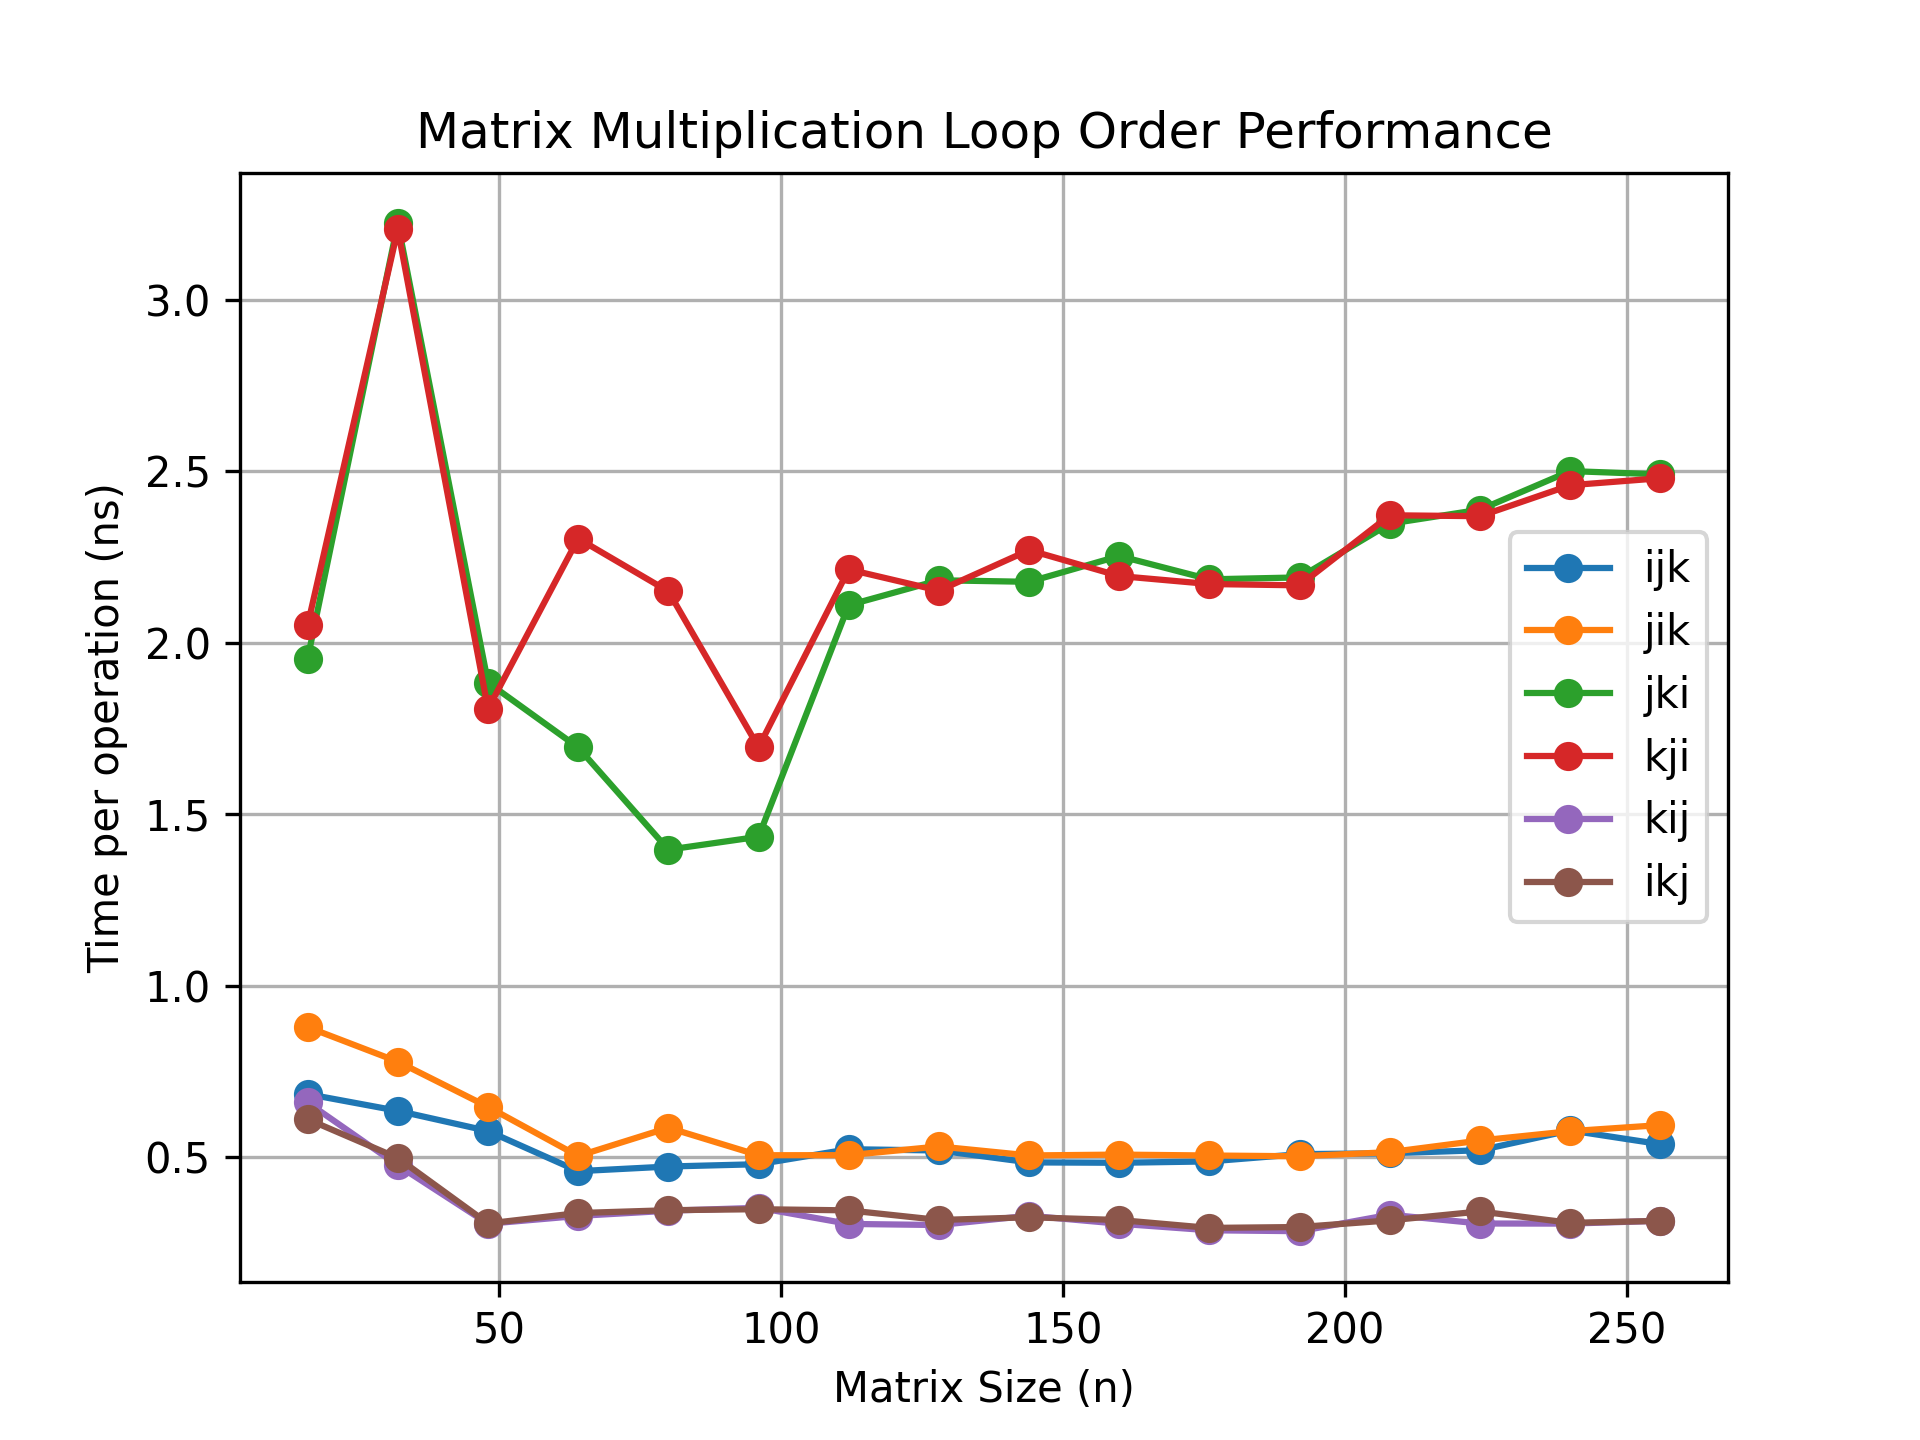
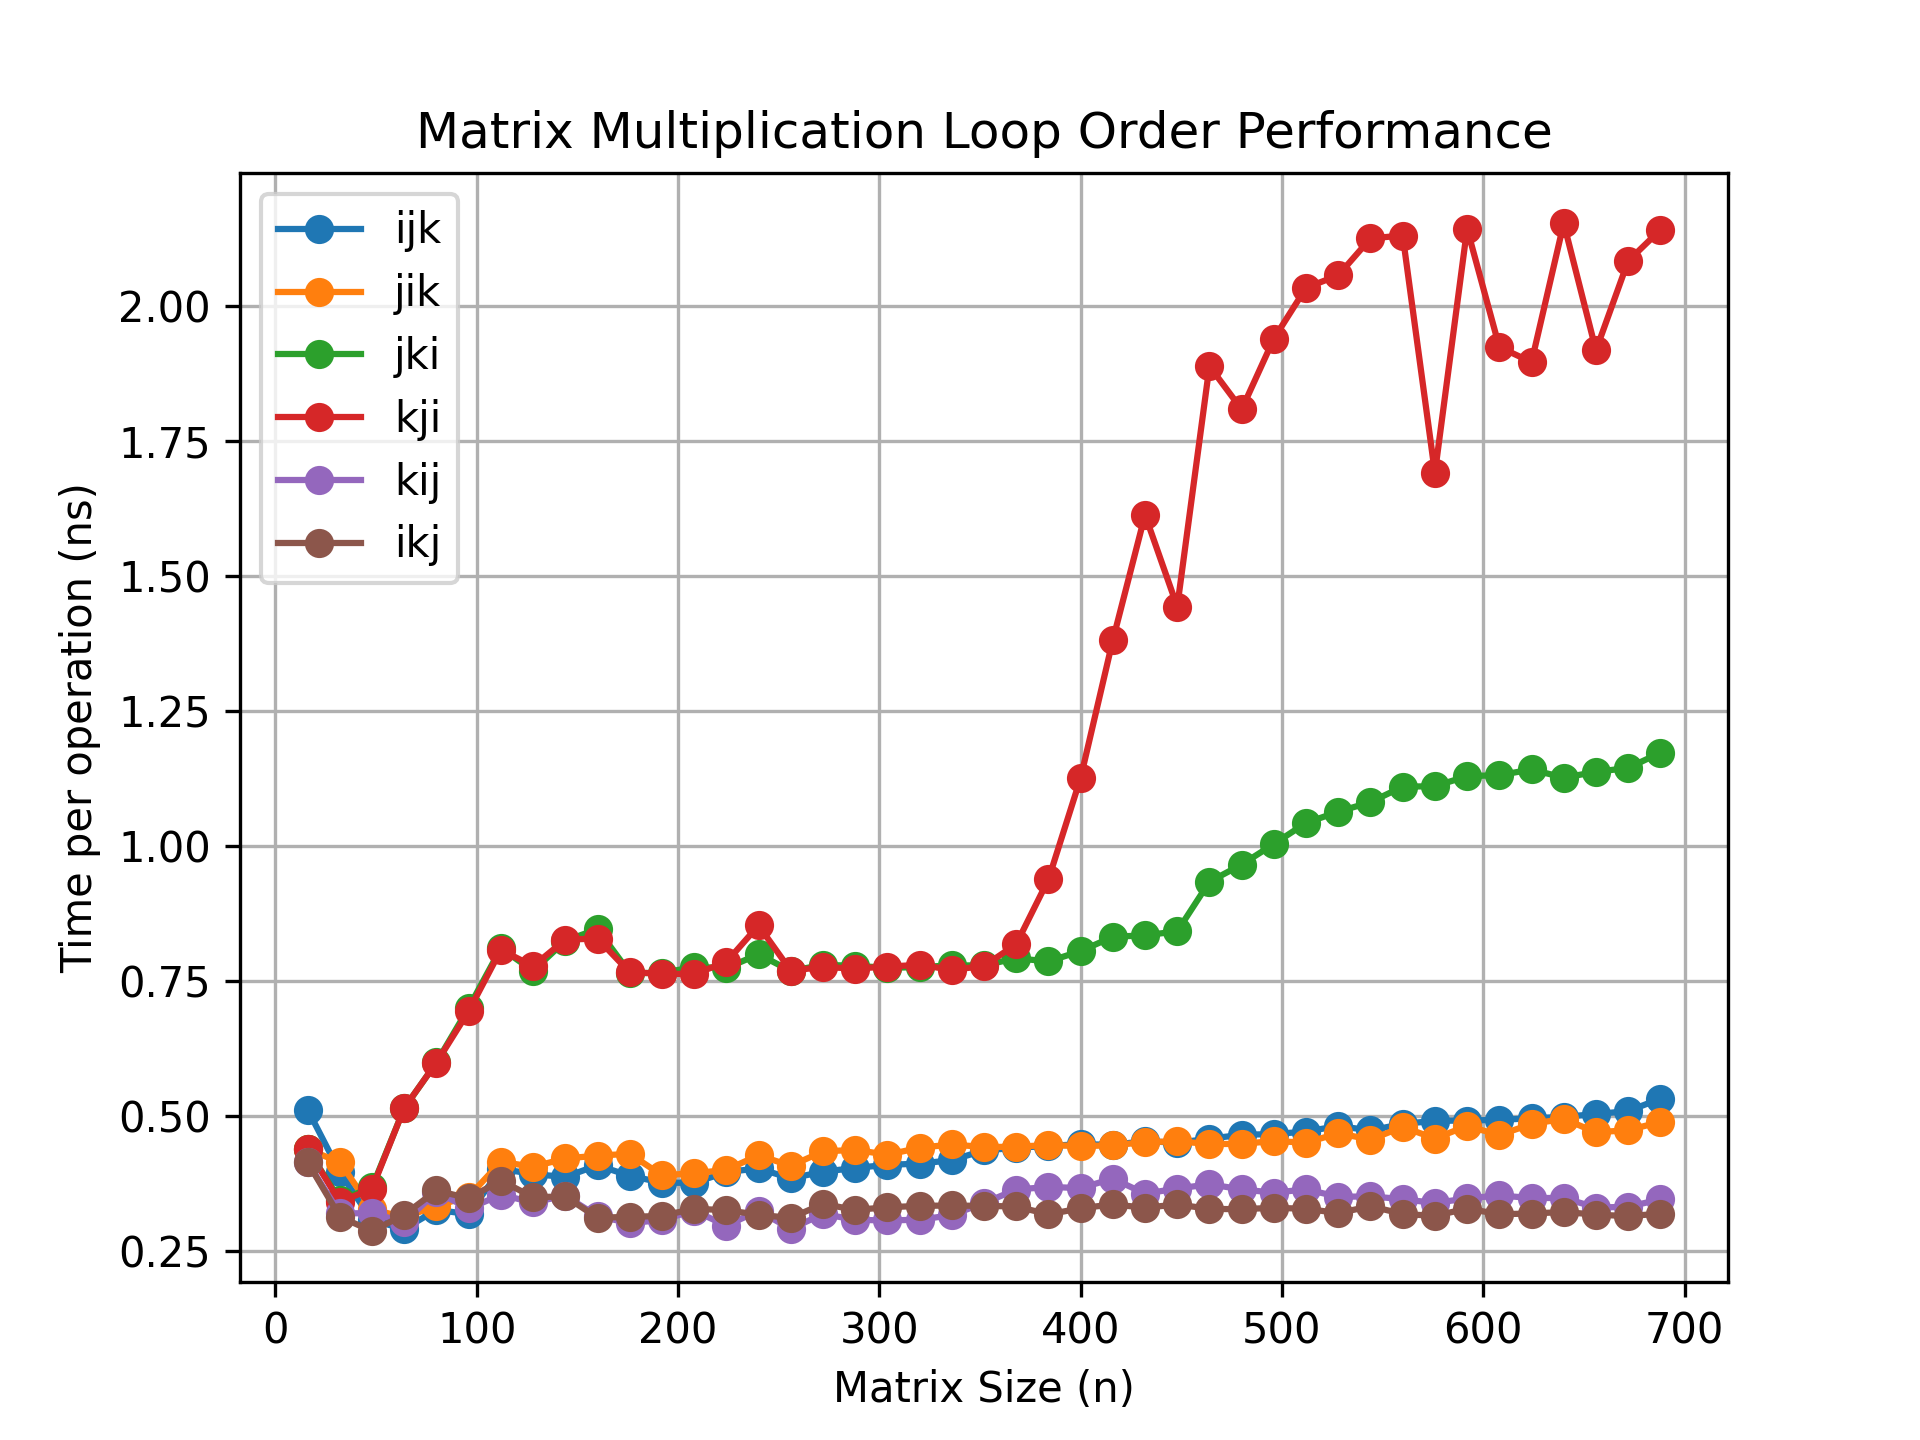
重新跑数据

diff --git a/src/mem/mat_mult.c b/src/mem/mat_mult.c
@@ -3,7 +3,7 @@
 #include <windows.h>
 
 #define MINN 16
-#define MAXN 256
+#define MAXN 700
 #define INCN 16
 #define WARMUP 2
 #define REPEAT 5
